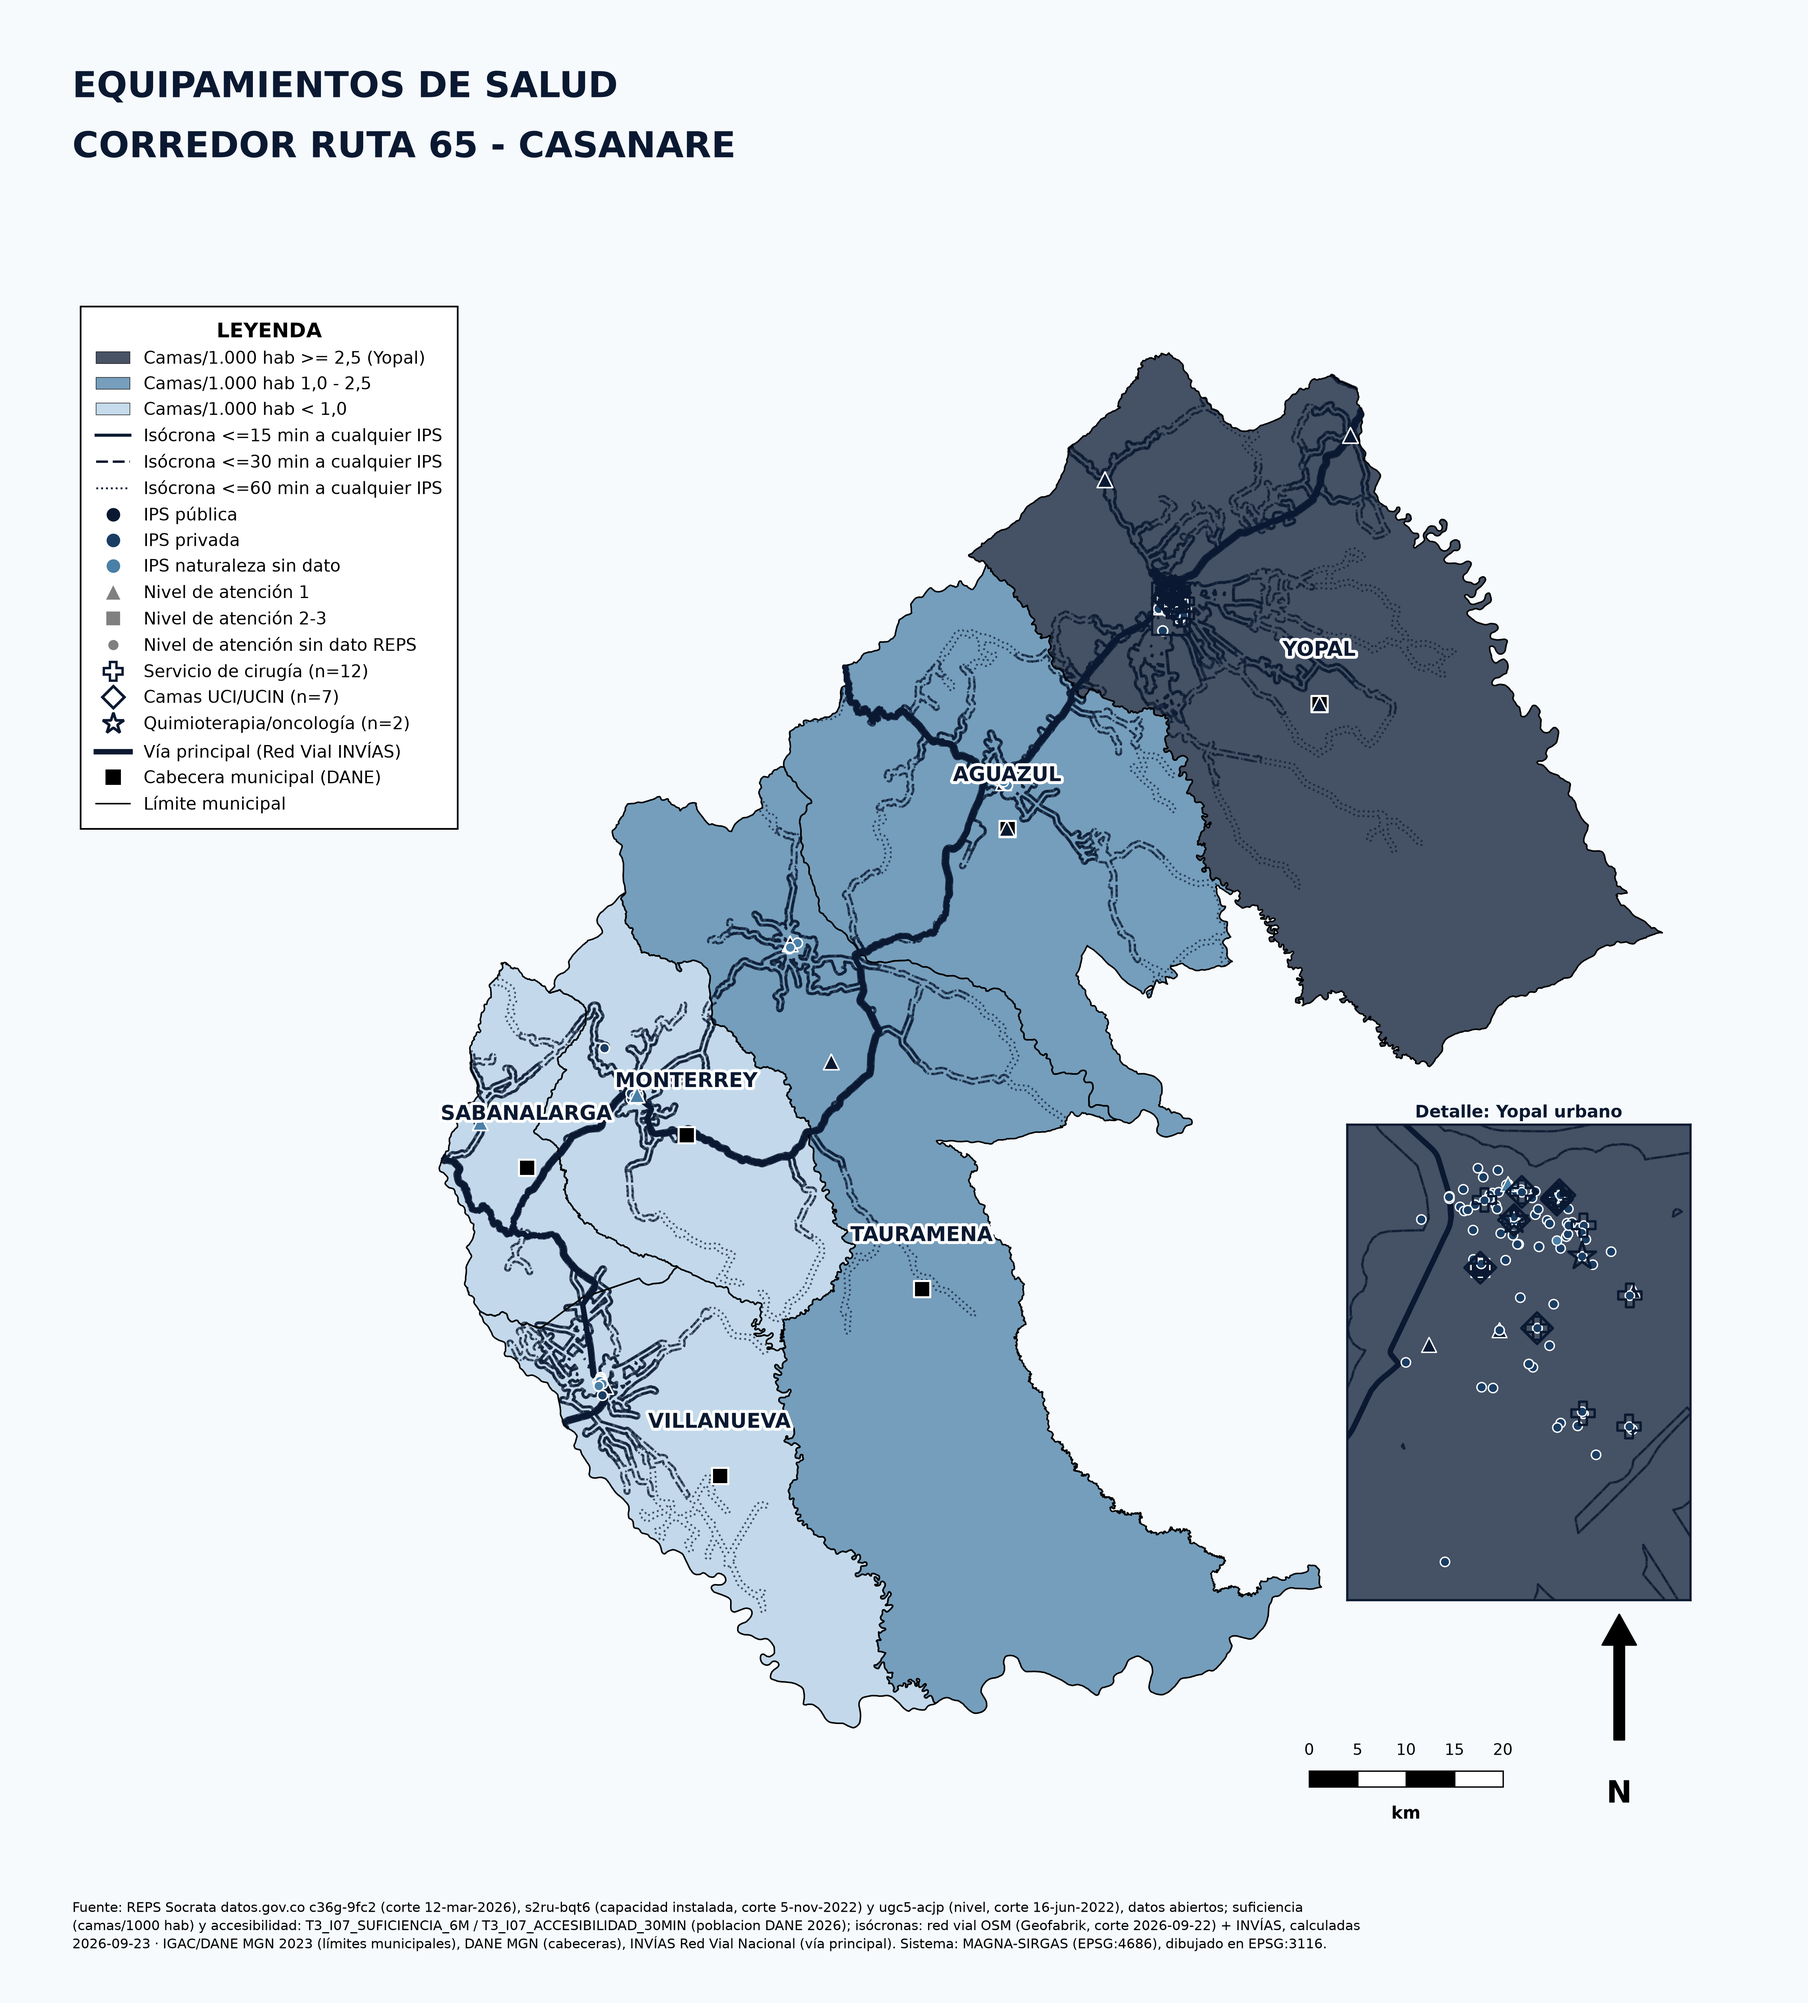
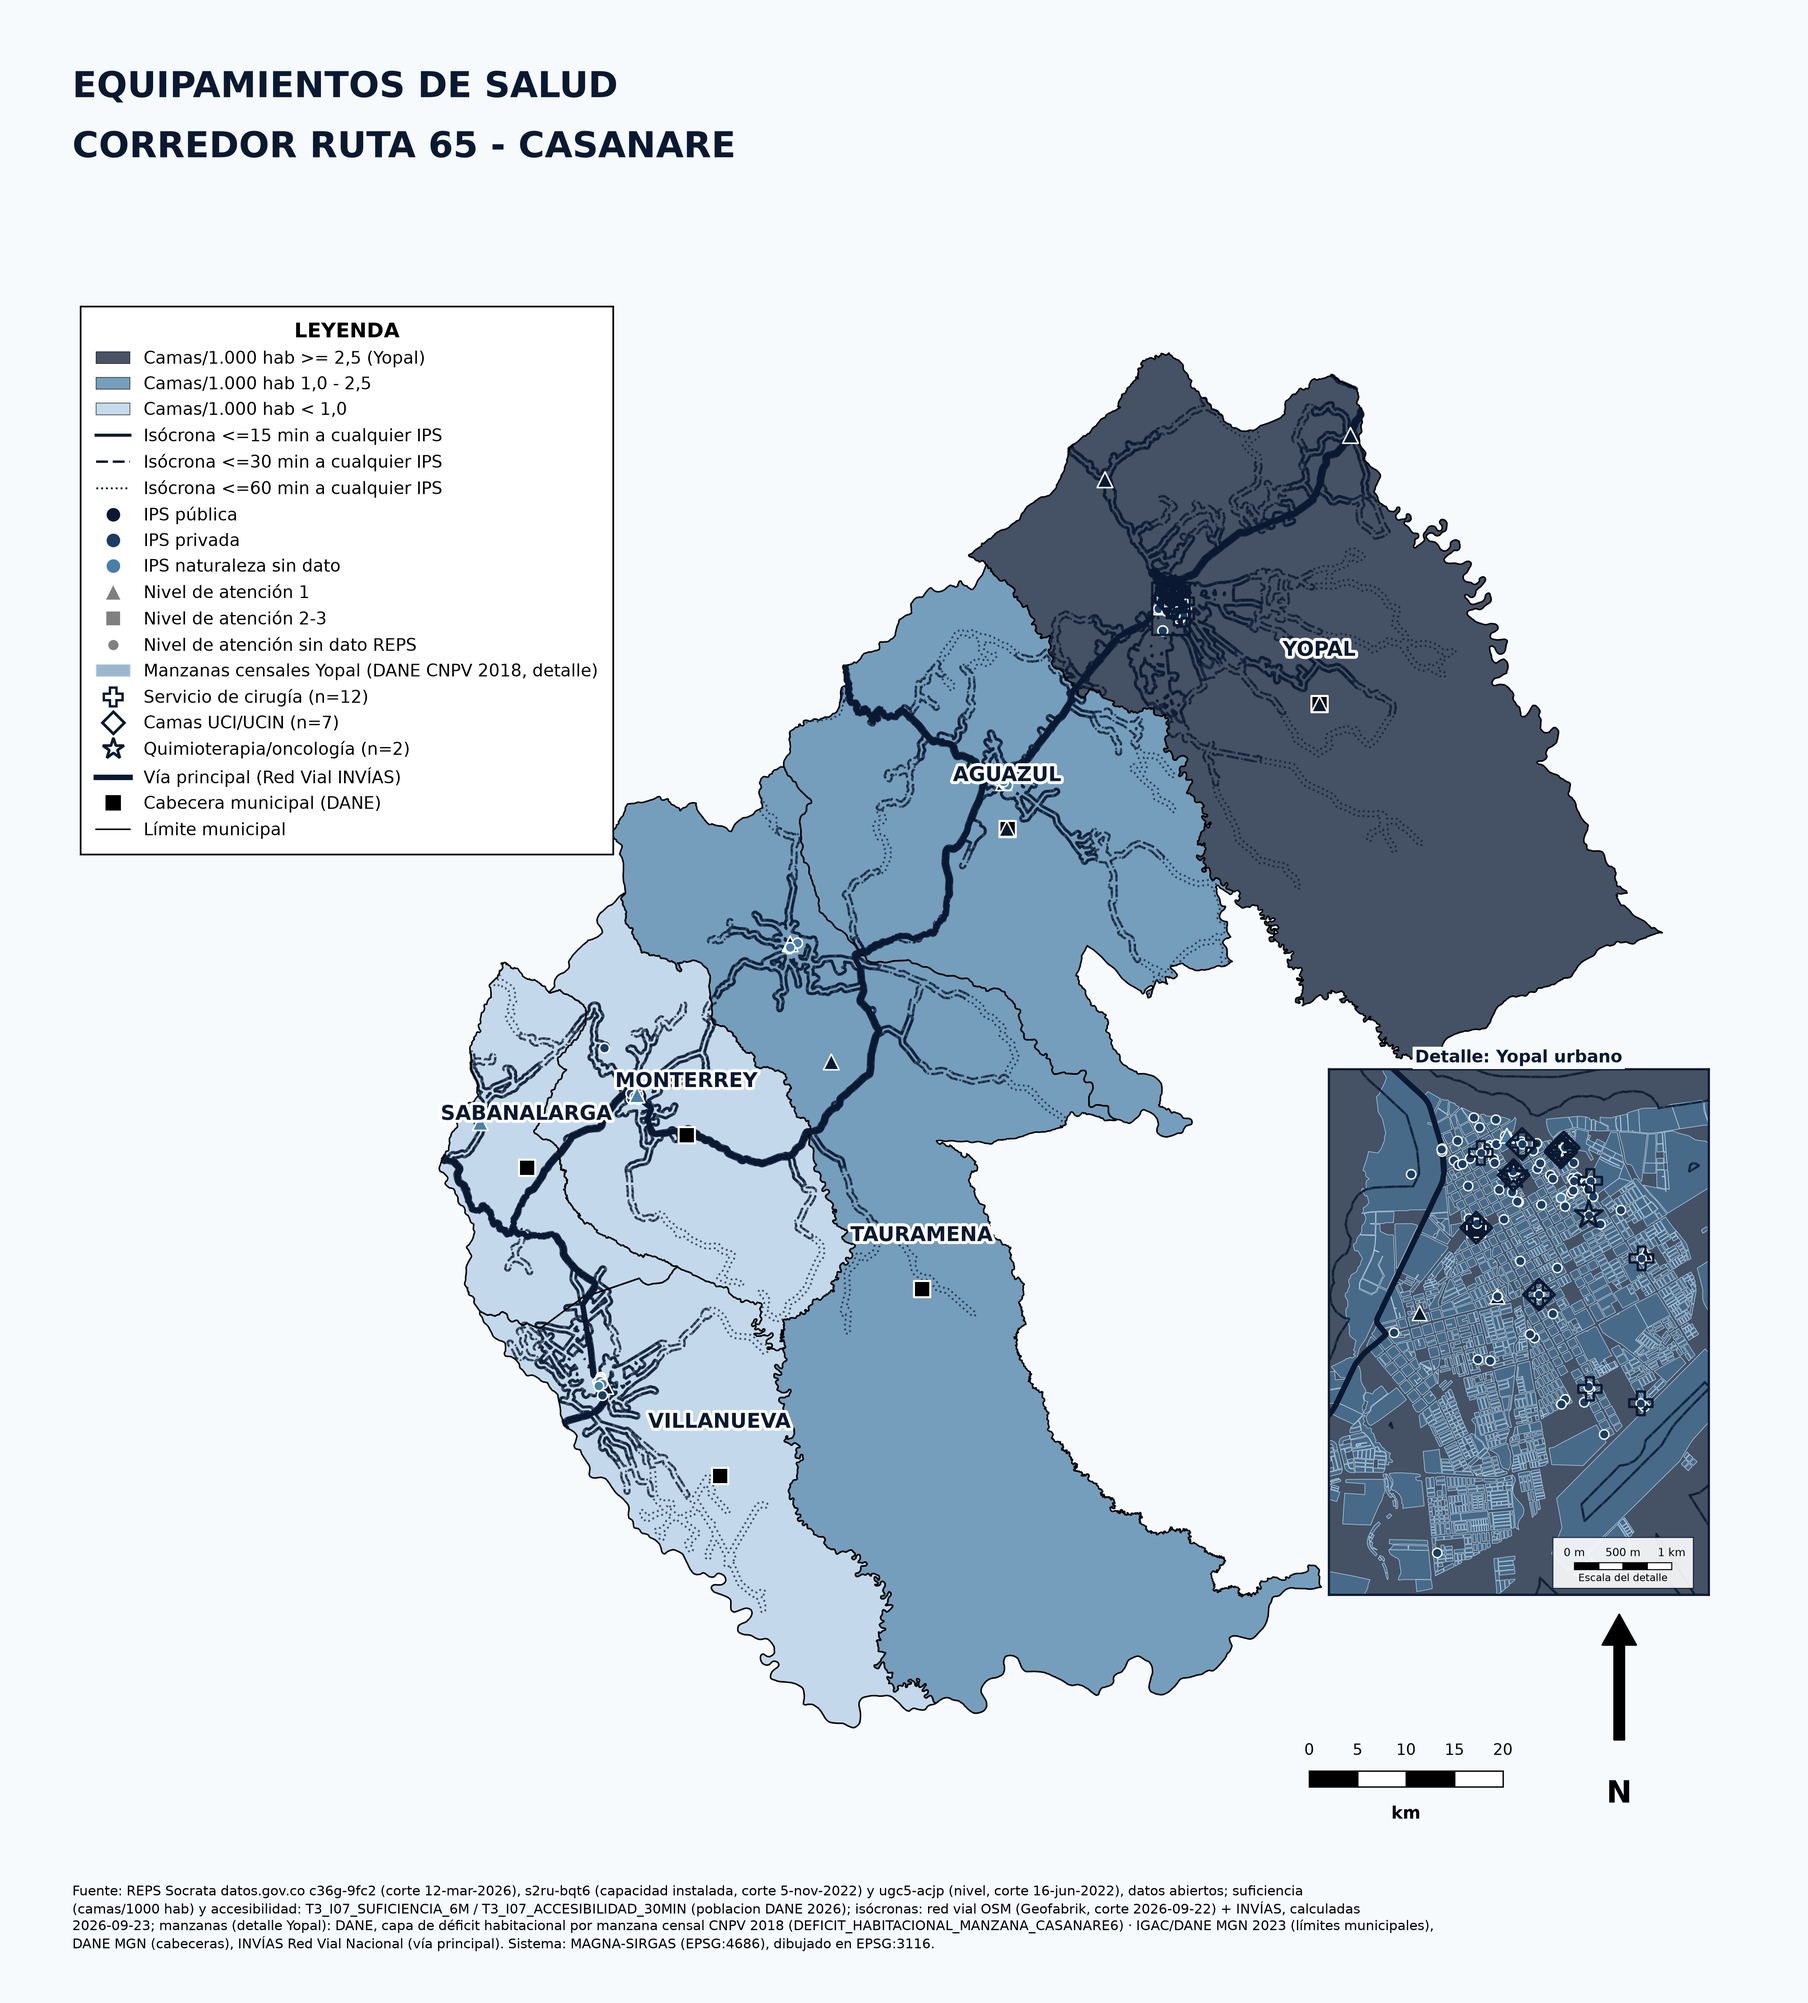
Agrega manzanas y escala propia al detalle de Yopal en el mapa de salud

diff --git a/index.html b/index.html
@@ -849,7 +849,7 @@ html,body{max-width:100%;overflow-x:clip}
     <div class="lamina-body">
       <figure class="plate plate--map">
         <div class="plate-tag"><span class="label">Mapa · Sedes IPS</span><span class="code">M-03</span></div>
-        <div class="plate-img"><img src="mapas/Salud.png?v=2"width="4440" height="4920" alt="Mapa de sedes IPS" loading="lazy"></div>
+        <div class="plate-img"><img src="mapas/Salud.png?v=3"width="4440" height="4920" alt="Mapa de sedes IPS" loading="lazy"></div>
         <figcaption>Sedes IPS y accesibilidad a 30 minutos</figcaption>
       </figure>
 
